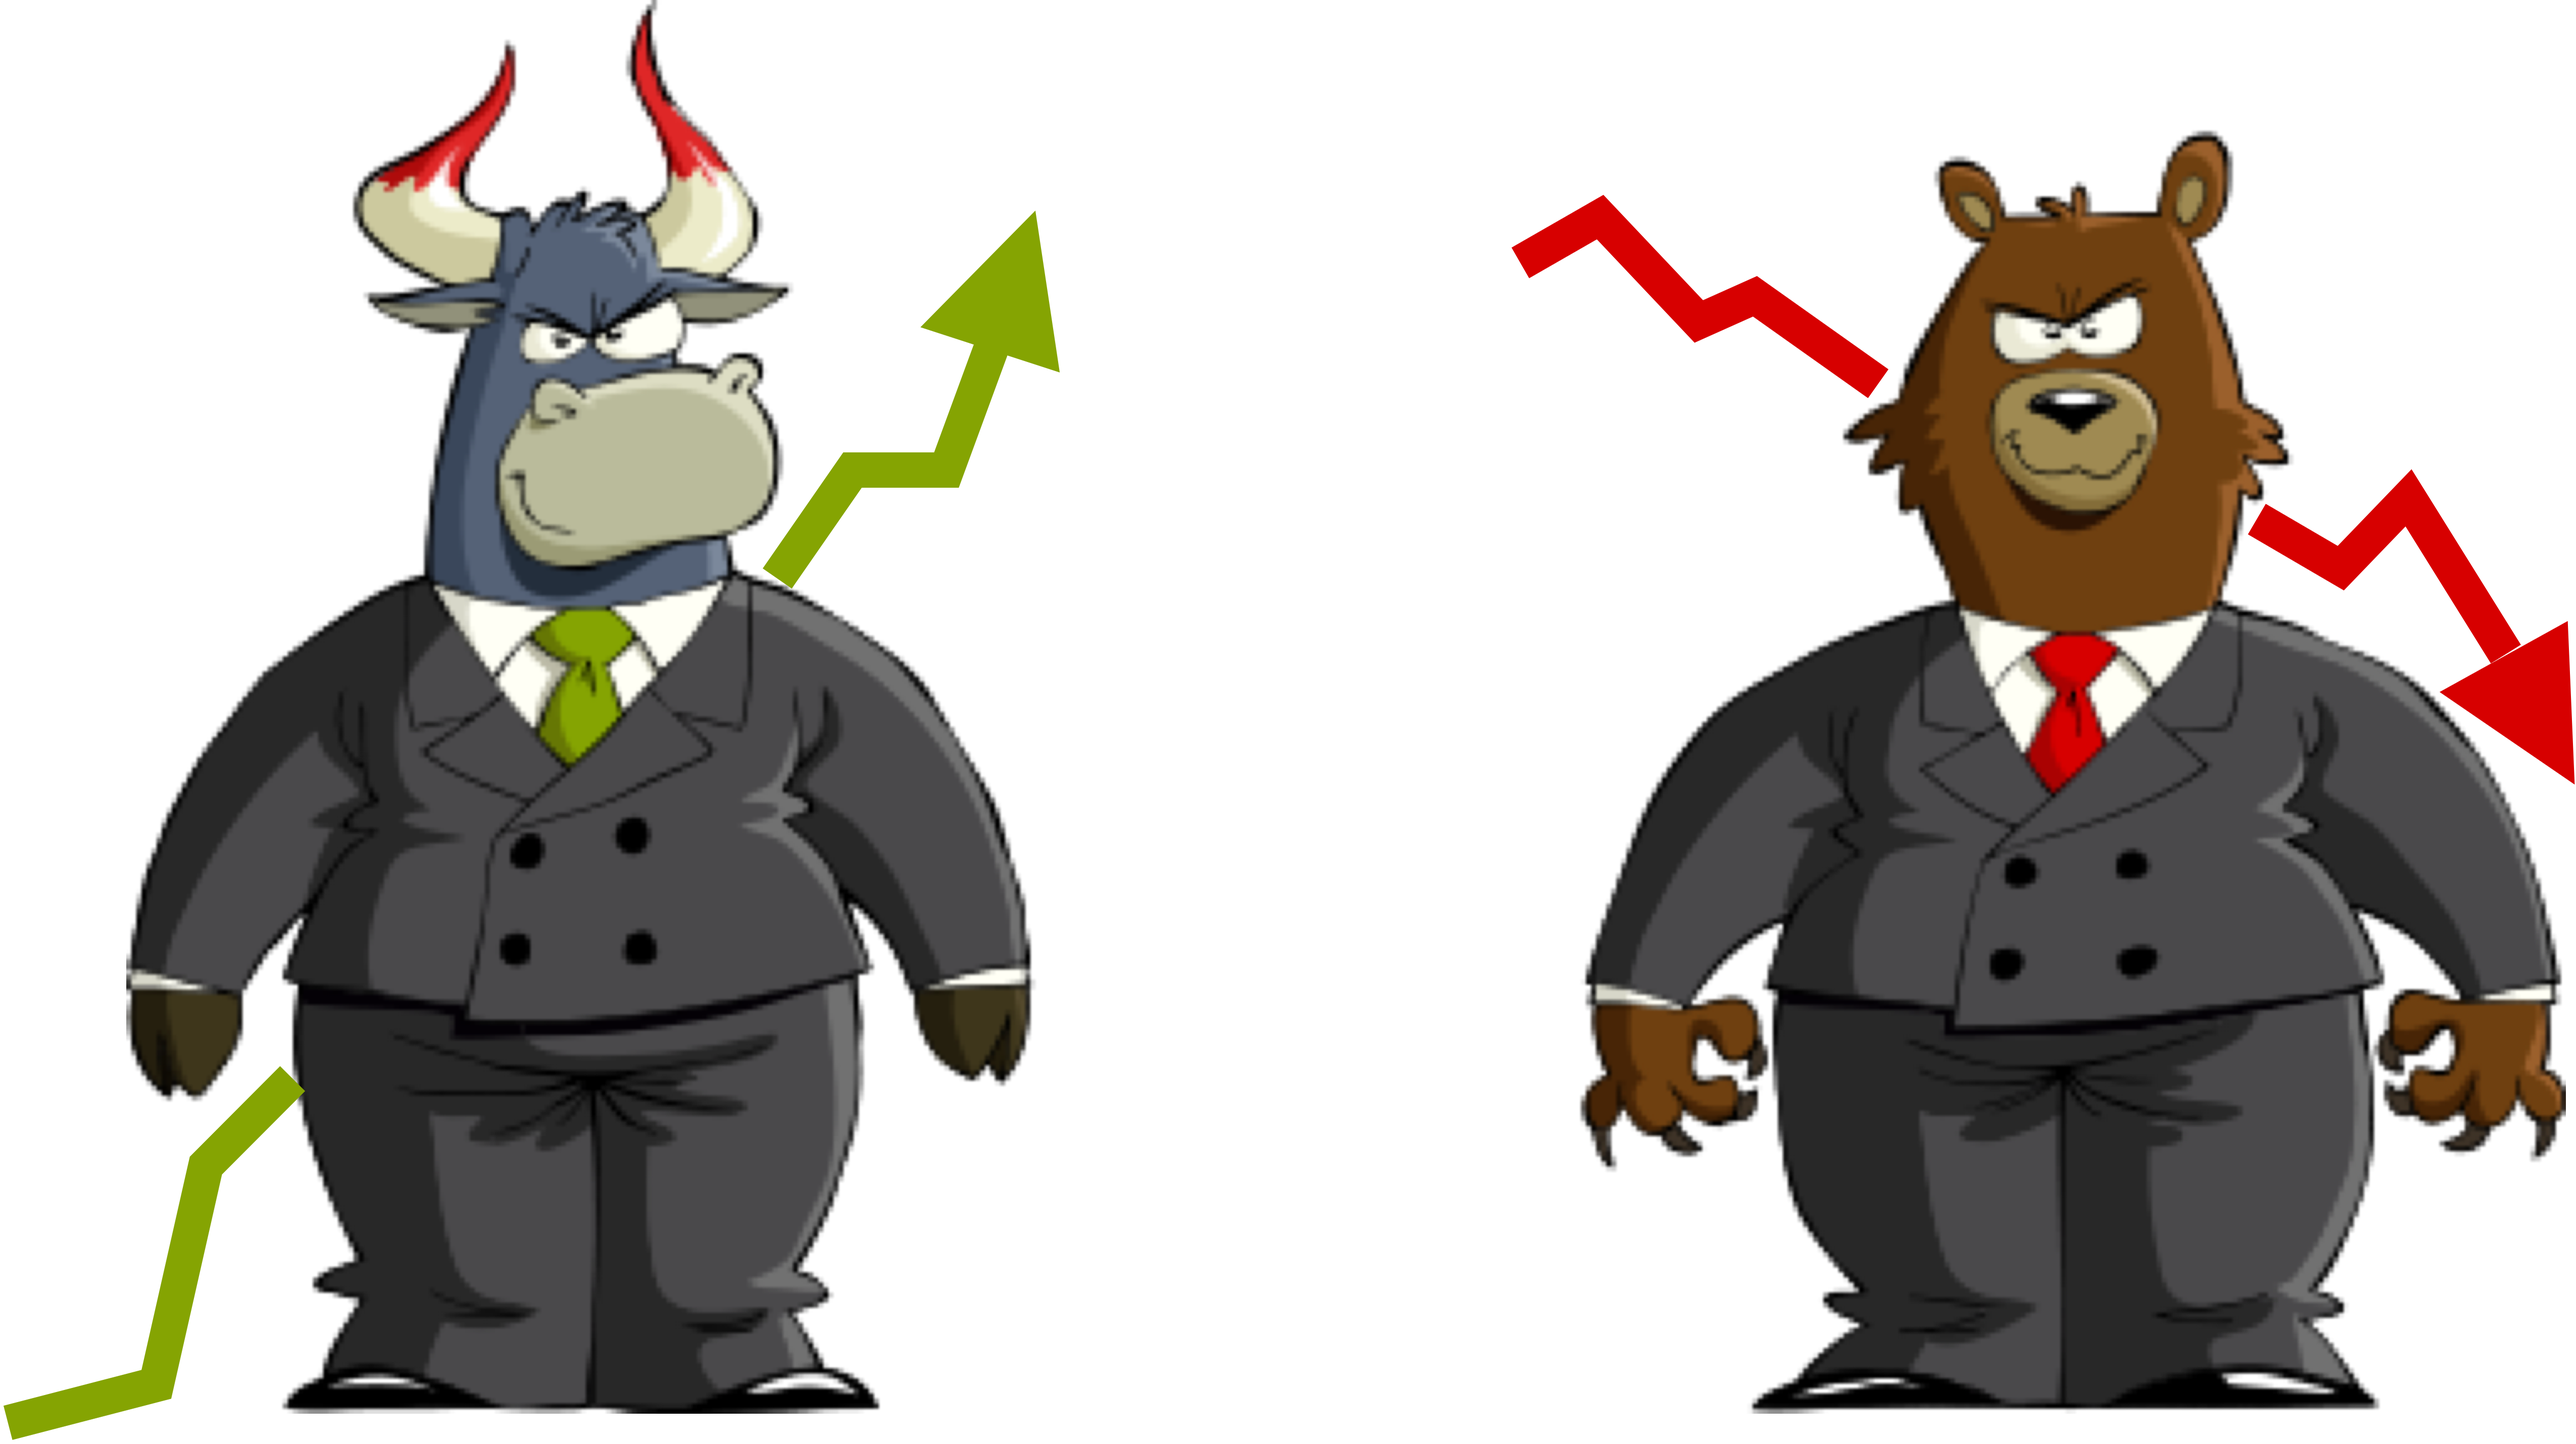
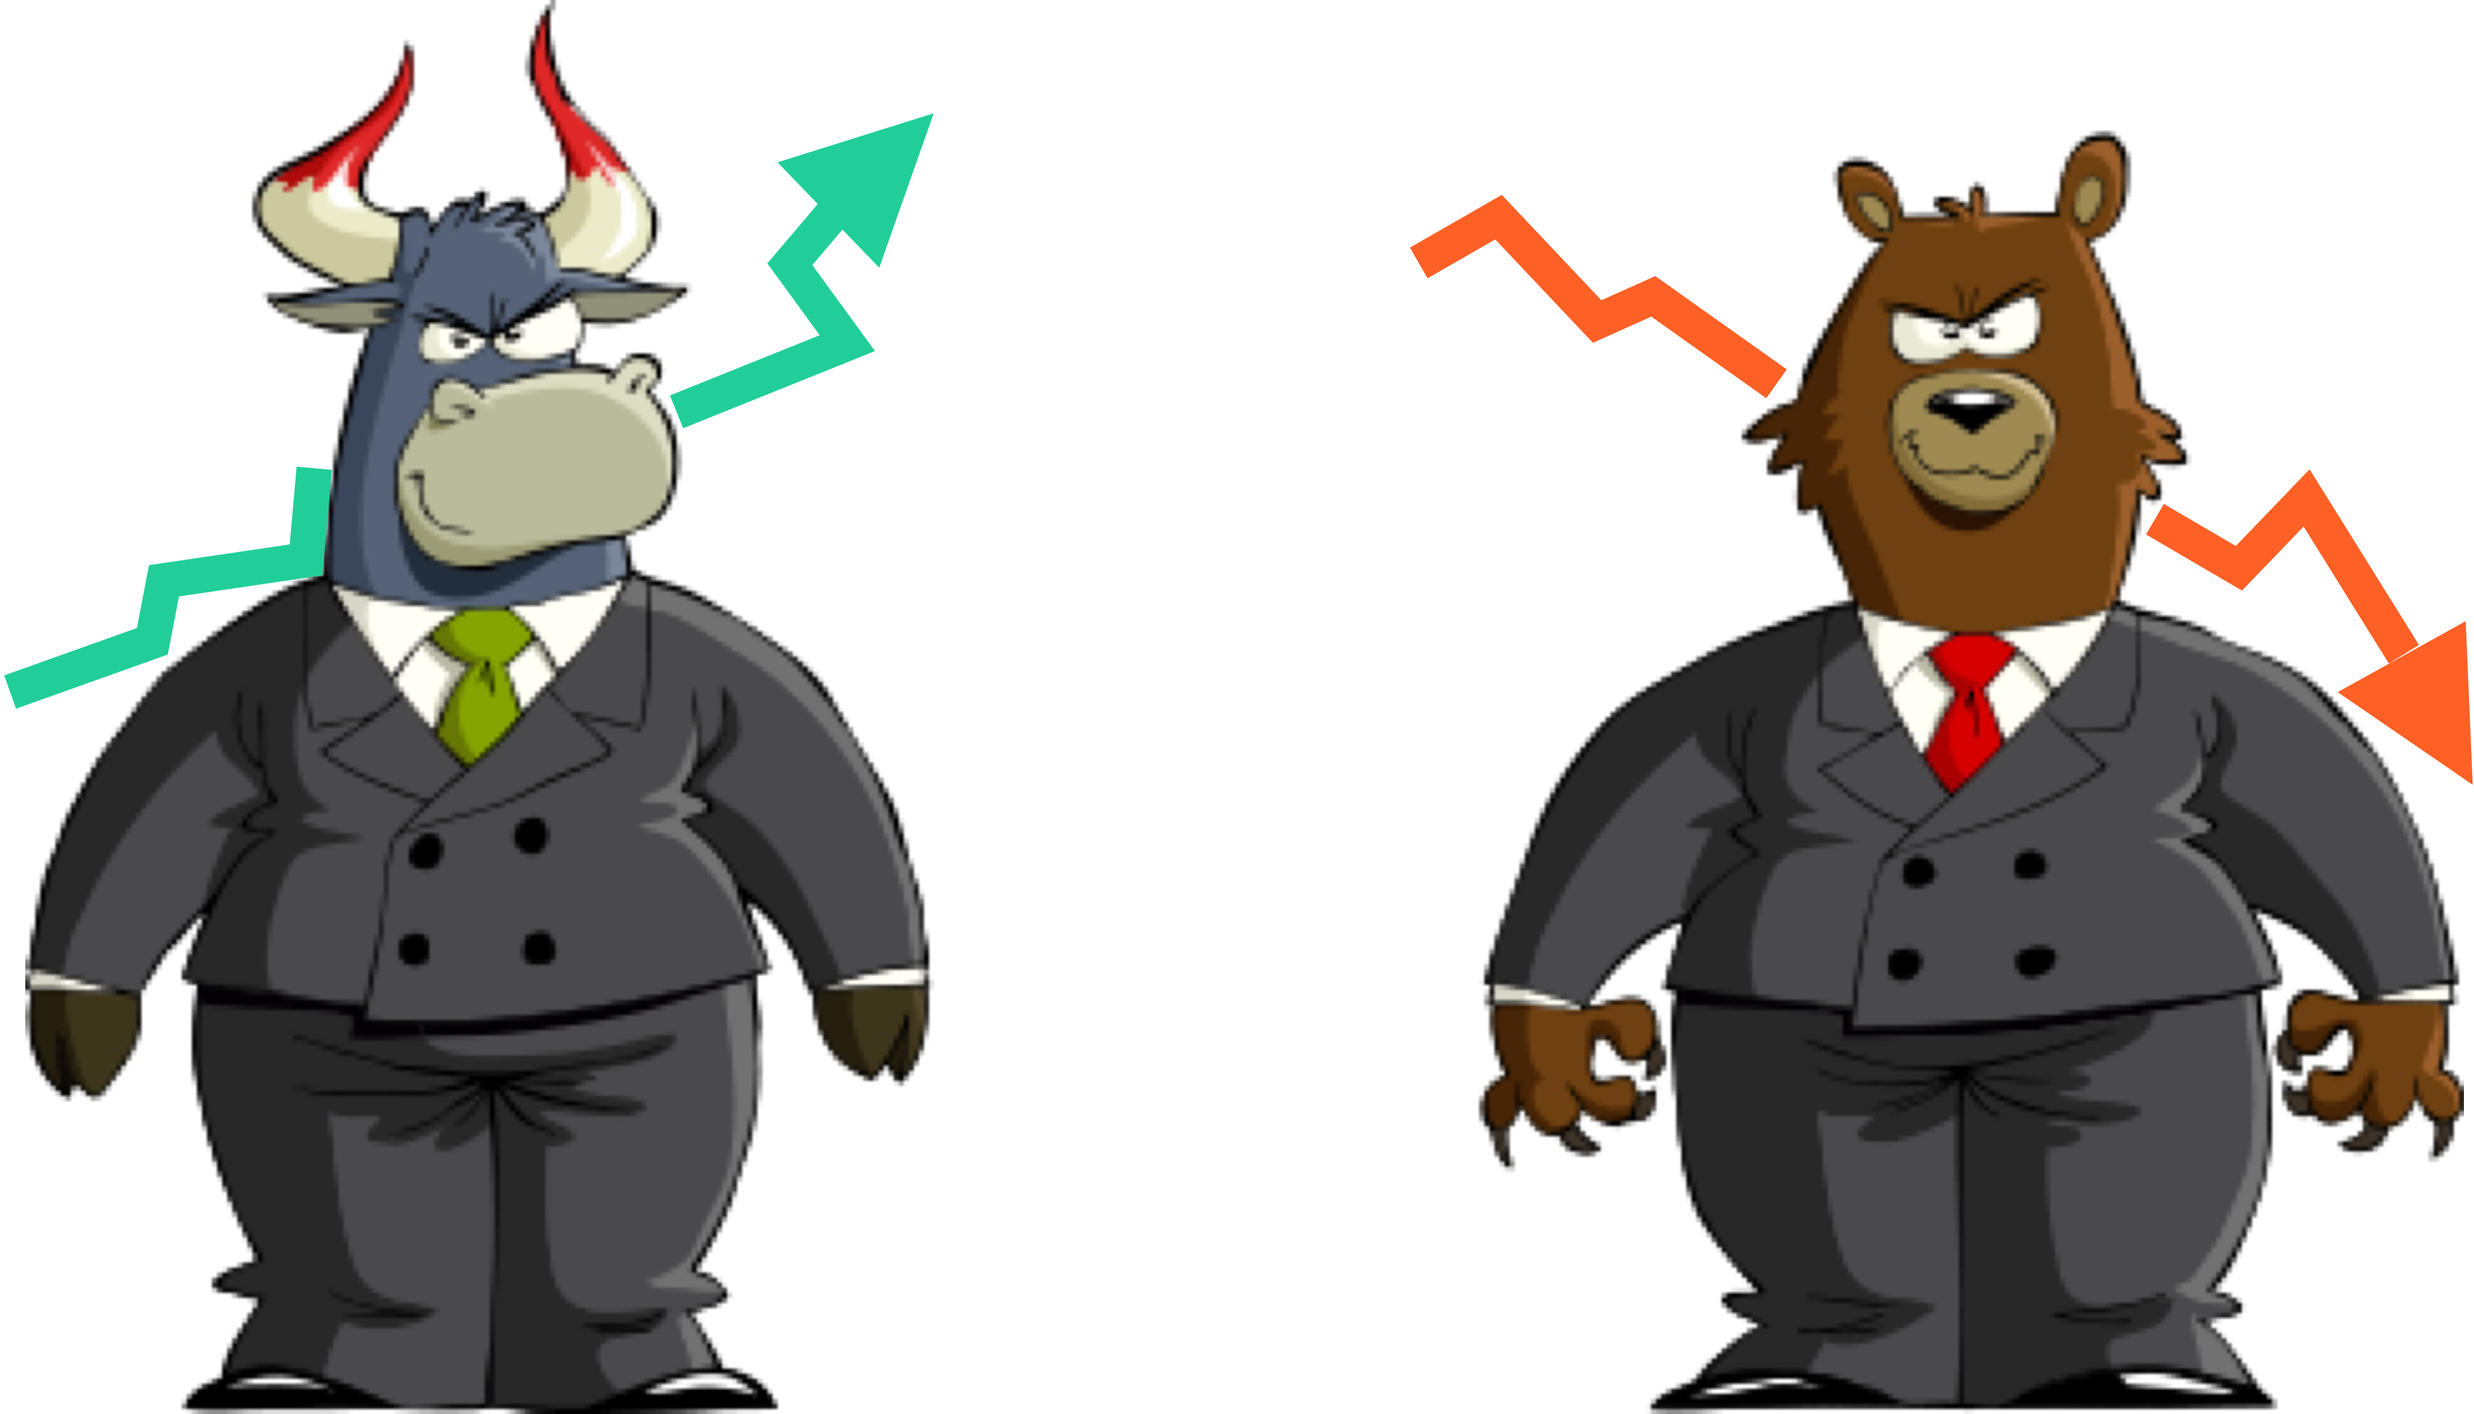
change photo bull bear

Changed region(s): [[0.0, 0.0, 0.4371, 1.0], [0.562, 0.0932, 1.0, 1.0], [0.6869, 0.435, 0.7182, 0.4661]]

diff --git a/client/src/components/StockHeader.vue b/client/src/components/StockHeader.vue
@@ -40,7 +40,7 @@
                                     </div>
                                     <span id="bandbdigit1">{{trendBullBear[0]}}  %</span>
                                     <div id="bullsAndBearsPic">
-                                        <img src="/static/images/bulls-and-bears.png" alt="bull and bear">
+                                        <img src="/static/images/bull-bear-arrow.png" alt="bull and bear">
                                     </div>
                                     <span id="bandbdigit2">{{trendBullBear[1]}}  %</span>
                                     <div v-if="!watchItem ||watchItem.position==='none'" id="BBear">
@@ -87,7 +87,7 @@ export default {
   },
   data() {
     return {
-         activeItem: 'thirty'
+      activeItem: "thirty"
     };
   },
   methods: {
@@ -129,17 +129,17 @@ export default {
 
     trend30() {
       this.$emit("changeWatchlist");
-      this.activeItem = "thirty"
+      this.activeItem = "thirty";
     },
 
     trend7() {
       this.$emit("trendBullBearSeven");
-      this.activeItem = "seven"
+      this.activeItem = "seven";
     },
 
     trend1() {
       this.$emit("trendBullBearOne");
-      this.activeItem = "one"
+      this.activeItem = "one";
     }
   }
 };

diff --git a/client/src/components/PublishBabble.vue b/client/src/components/PublishBabble.vue
@@ -36,7 +36,7 @@
                         Take position on {{stock.longName}} !
                     </h1>
                     <div id="bullsAndBearsPic">
-                        <img src="/static/images/roundBullBear.jpg" alt="bull and bear">
+                        <img src="/static/images/roundBullBearArrow.png" alt="bull and bear">
                     </div>
                 </nav>
                 <div id="bullsAndBears2">
